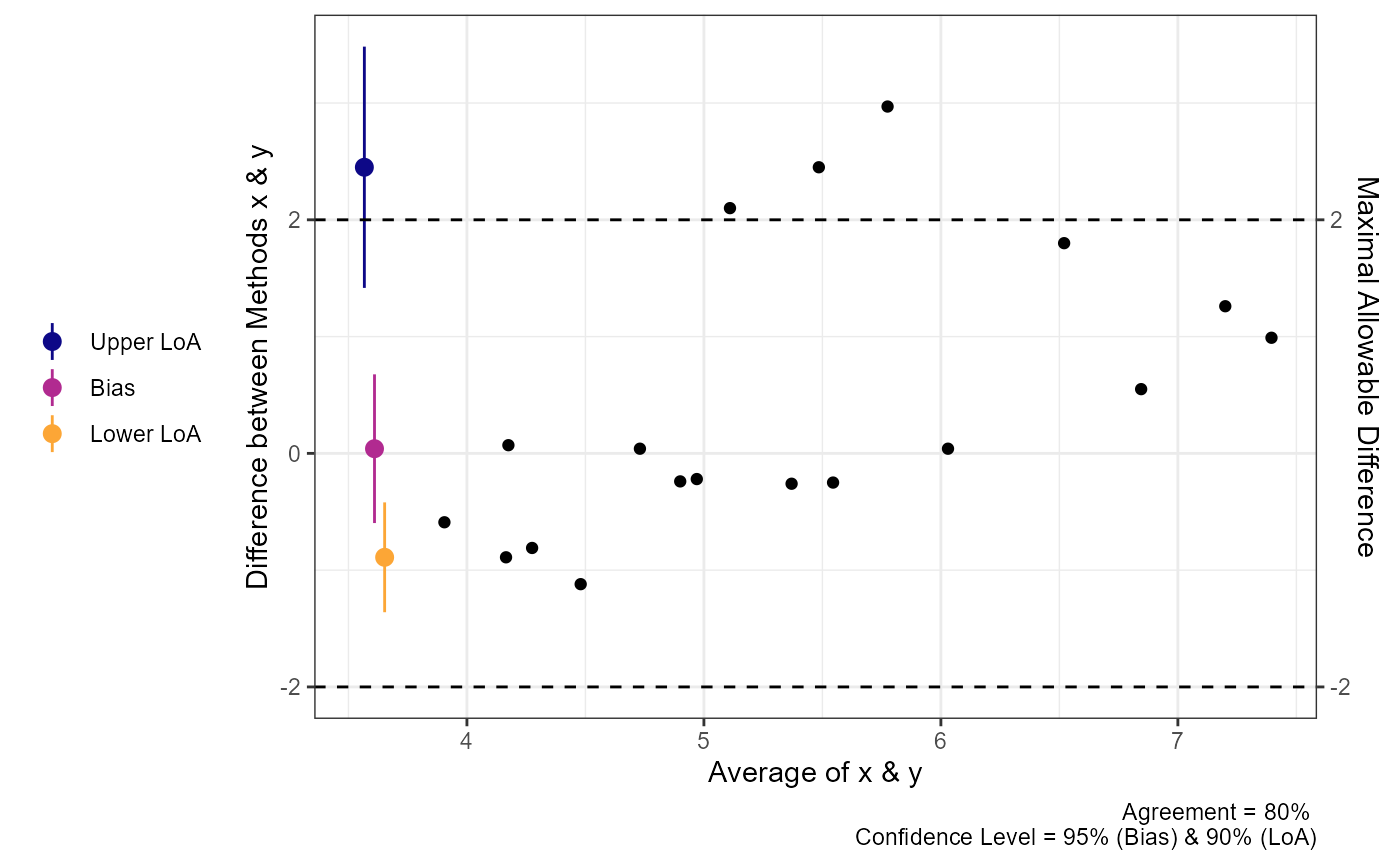
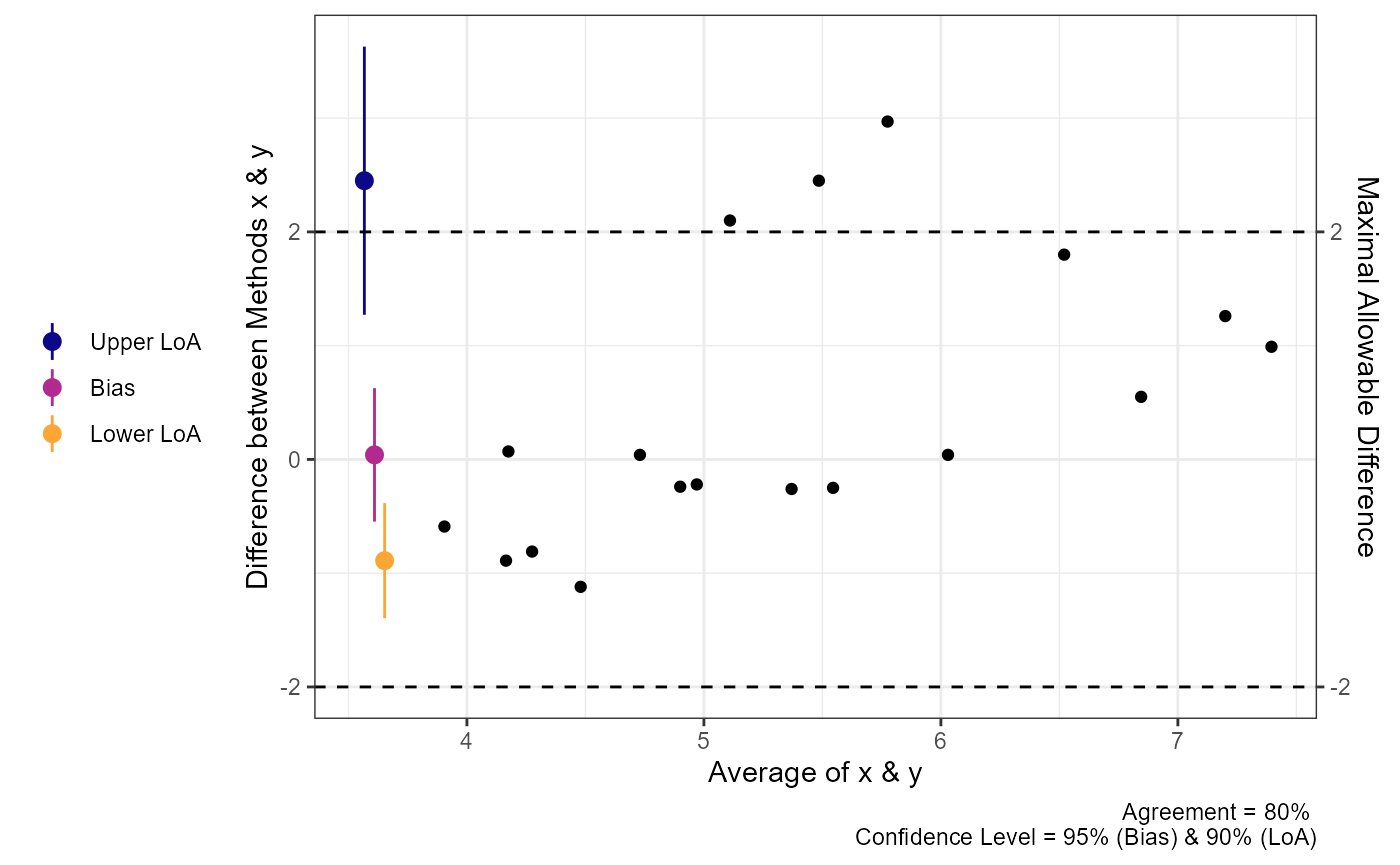
fixed notation
More tests to ensure robustness?

diff --git a/docs/articles/agree_tests.html b/docs/articles/agree_tests.html
@@ -646,8 +646,6 @@ are no longer symmetric around the bias estimate.</p>
 <span>              delta <span class="op">=</span> <span class="fl">2</span>,</span>
 <span>              prop_bias <span class="op">=</span> <span class="cn">FALSE</span>,</span>
 <span>              agree.level <span class="op">=</span> <span class="fl">.8</span><span class="op">)</span></span>
-<span><span class="co">#&gt; Warning in agree_np(x = "x", y = "y", data = reps, delta = 2, prop_bias =</span></span>
-<span><span class="co">#&gt; FALSE, : Evidence of proportional bias. Consider setting prop_bias to TRUE.</span></span>
 <span><span class="fu"><a href="https://rdrr.io/r/base/print.html" class="external-link">print</a></span><span class="op">(</span><span class="va">a1</span><span class="op">)</span></span>
 <span><span class="co">#&gt; Limit of Agreement = 80%</span></span>
 <span><span class="co">#&gt; Binomial proportions test and quantile regression for LoA</span></span>
@@ -658,9 +656,9 @@ are no longer symmetric around the bias estimate.</p>
 <span><span class="co">#&gt; </span></span>
 <span><span class="co">#&gt; ###- Quantile Limits of Agreement (LoA) -###</span></span>
 <span><span class="co">#&gt;           Estimate Lower CI Upper CI CI Level</span></span>
-<span><span class="co">#&gt; Lower LoA    -0.89  -1.3602  -0.4198     0.90</span></span>
-<span><span class="co">#&gt; Bias          0.04  -0.5967   0.6767     0.95</span></span>
-<span><span class="co">#&gt; Upper LoA     2.45   1.4170   3.4830     0.90</span></span>
+<span><span class="co">#&gt; Lower LoA    -0.89  -1.3958  -0.3842     0.90</span></span>
+<span><span class="co">#&gt; Bias          0.04  -0.5463   0.6263     0.95</span></span>
+<span><span class="co">#&gt; Upper LoA     2.45   1.2714   3.6286     0.90</span></span>
 <span></span>
 <span><span class="fu"><a href="https://rdrr.io/r/graphics/plot.default.html" class="external-link">plot</a></span><span class="op">(</span><span class="va">a1</span><span class="op">)</span></span></code></pre></div>
 <p><img src="agree_tests_files/figure-html/unnamed-chunk-13-1.png" width="700"></p>
@@ -684,15 +682,15 @@ agreement does not.</p>
 <span><span class="co">#&gt; </span></span>
 <span><span class="co">#&gt; ###- Quantile Limits of Agreement (LoA) -###</span></span>
 <span><span class="co">#&gt;                  Estimate Lower CI Upper CI CI Level</span></span>
-<span><span class="co">#&gt; Lower LoA @ 3.9  -1.28975  -1.7516  -0.8279     0.90</span></span>
-<span><span class="co">#&gt; Lower LoA @ 5.24 -0.45436  -0.6419  -0.2668     0.90</span></span>
-<span><span class="co">#&gt; Lower LoA @ 7.4   0.89417   0.5463   1.2421     0.90</span></span>
-<span><span class="co">#&gt; Bias @ 3.9       -0.73052  -1.3889  -0.0721     0.95</span></span>
-<span><span class="co">#&gt; Bias @ 5.24      -0.07238  -0.6687   0.5239     0.95</span></span>
-<span><span class="co">#&gt; Bias @ 7.4        0.99000  -0.5275   2.5075     0.95</span></span>
-<span><span class="co">#&gt; Upper LoA @ 3.9  -0.38310  -2.8567   2.0905     0.90</span></span>
-<span><span class="co">#&gt; Upper LoA @ 5.24  2.01069   0.9458   3.0755     0.90</span></span>
-<span><span class="co">#&gt; Upper LoA @ 7.4   5.87483   2.3087   9.4409     0.90</span></span>
+<span><span class="co">#&gt; Lower LoA @ 3.9  -1.28975  -1.6870  -0.8925     0.90</span></span>
+<span><span class="co">#&gt; Lower LoA @ 5.24 -0.45436  -0.6323  -0.2764     0.90</span></span>
+<span><span class="co">#&gt; Lower LoA @ 7.4   0.89417   0.6579   1.1305     0.90</span></span>
+<span><span class="co">#&gt; Bias @ 3.9       -0.73052  -1.3300  -0.1310     0.95</span></span>
+<span><span class="co">#&gt; Bias @ 5.24      -0.07238  -0.6732   0.5285     0.95</span></span>
+<span><span class="co">#&gt; Bias @ 7.4        0.99000  -0.6176   2.5976     0.95</span></span>
+<span><span class="co">#&gt; Upper LoA @ 3.9  -0.38310  -3.0947   2.3285     0.90</span></span>
+<span><span class="co">#&gt; Upper LoA @ 5.24  2.01069   0.8257   3.1957     0.90</span></span>
+<span><span class="co">#&gt; Upper LoA @ 7.4   5.87483   2.1922   9.5575     0.90</span></span>
 <span></span>
 <span><span class="fu"><a href="https://rdrr.io/r/graphics/plot.default.html" class="external-link">plot</a></span><span class="op">(</span><span class="va">a1</span><span class="op">)</span></span></code></pre></div>
 <p><img src="agree_tests_files/figure-html/unnamed-chunk-14-1.png" width="700"></p>

diff --git a/docs/reference/agree_np.html b/docs/reference/agree_np.html
@@ -145,6 +145,7 @@ The hypothesis test is based on binomial proportions within the maximal allowabl
     <h2>Examples</h2>
     <div class="sourceCode"><pre class="sourceCode r"><code><span class="r-in"><span><span class="fu"><a href="https://rdrr.io/r/utils/data.html" class="external-link">data</a></span><span class="op">(</span><span class="st">'reps'</span><span class="op">)</span></span></span>
 <span class="r-in"><span><span class="fu">agree_np</span><span class="op">(</span>x <span class="op">=</span> <span class="st">"x"</span>, y <span class="op">=</span> <span class="st">"y"</span>, id <span class="op">=</span> <span class="st">"id"</span>, data <span class="op">=</span> <span class="va">reps</span>, delta <span class="op">=</span> <span class="fl">2</span><span class="op">)</span></span></span>
+<span class="r-wrn co"><span class="r-pr">#&gt;</span> <span class="warning">Warning: </span>Evidence of proportional bias. Consider setting prop_bias to TRUE.</span>
 <span class="r-out co"><span class="r-pr">#&gt;</span> Limit of Agreement = 95%</span>
 <span class="r-out co"><span class="r-pr">#&gt;</span> Binomial proportions test and quantile regression for LoA</span>
 <span class="r-out co"><span class="r-pr">#&gt;</span> </span>
@@ -154,9 +155,9 @@ The hypothesis test is based on binomial proportions within the maximal allowabl
 <span class="r-out co"><span class="r-pr">#&gt;</span> </span>
 <span class="r-out co"><span class="r-pr">#&gt;</span> ###- Quantile Limits of Agreement (LoA) -###</span>
 <span class="r-out co"><span class="r-pr">#&gt;</span>           Estimate Lower CI Upper CI CI Level</span>
-<span class="r-out co"><span class="r-pr">#&gt;</span> Lower LoA    -1.12  -1.5126  -0.7274     0.90</span>
-<span class="r-out co"><span class="r-pr">#&gt;</span> Bias          0.04  -0.6194   0.6994     0.95</span>
-<span class="r-out co"><span class="r-pr">#&gt;</span> Upper LoA     2.97   2.2914   3.6486     0.90</span>
+<span class="r-out co"><span class="r-pr">#&gt;</span> Lower LoA    -1.12  -1.3924  -0.8476     0.90</span>
+<span class="r-out co"><span class="r-pr">#&gt;</span> Bias          0.04  -0.4673   0.5473     0.95</span>
+<span class="r-out co"><span class="r-pr">#&gt;</span> Upper LoA     2.97   2.1906   3.7494     0.90</span>
 <span class="r-out co"><span class="r-pr">#&gt;</span> </span>
 </code></pre></div>
     </div>

diff --git a/docs/articles/agreement_analysis.html b/docs/articles/agreement_analysis.html
@@ -493,8 +493,11 @@ LME = \sqrt{\frac{z_{\alpha} \cdot s_d^2}{n} + z_{\beta/2}^2 \cdot
 (\sqrt{u}-\sqrt{s^2_d} )^2}
 \]</span></p>
 <p><strong>Bland-Atlman Method</strong></p>
-<p>$$ S_{LoA}^2 = + ( + (1-)^2 + (1-)^2 )</p>
-<p>$$</p>
+<p><span class="math display">\[
+S_{LoA}^2 = \frac{s^2_d}{n} + \frac{z_{1-agree}^2}{2 \cdot s_d^2} \cdot
+(\frac{S_d^2}{n-1} + (1-\frac{1}{m_{xh}})^2 \cdot \frac{S_{xw}^4}{N_x -
+n} + (1-\frac{1}{m_{yh}})^2 \cdot \frac{S_{yw}^4}{N_y - n})
+\]</span></p>
 <p><span class="math display">\[
 LME = z_{1-\alpha} \cdot S_{LoA}
 \]</span></p>
